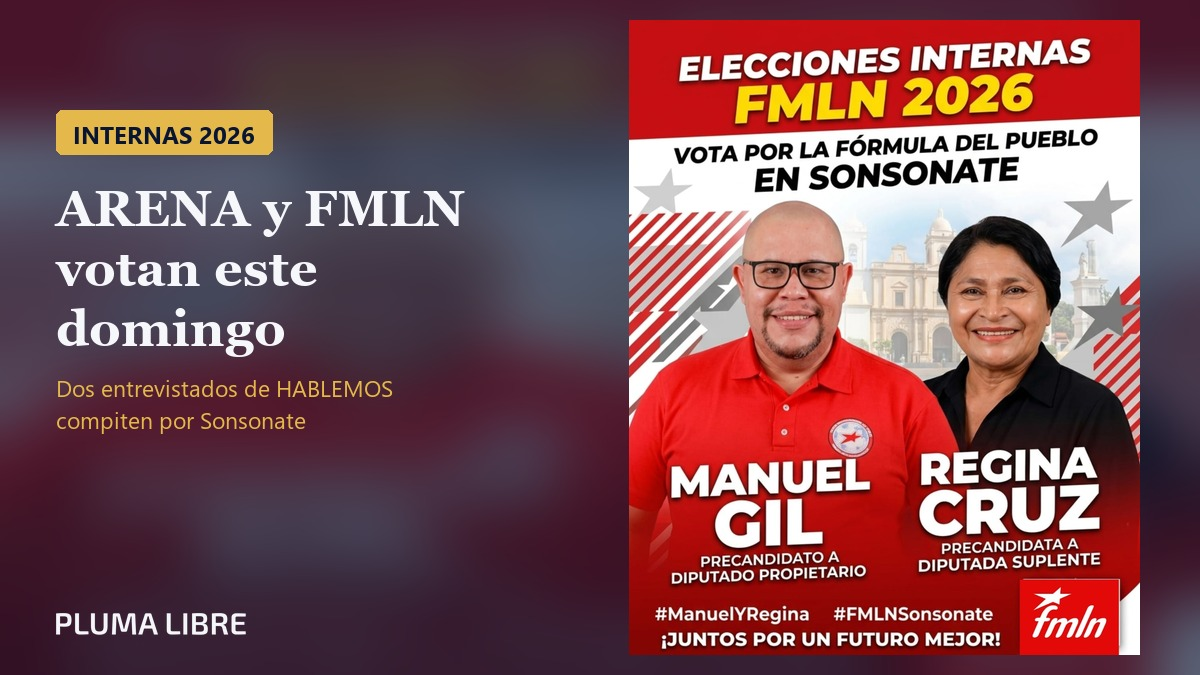
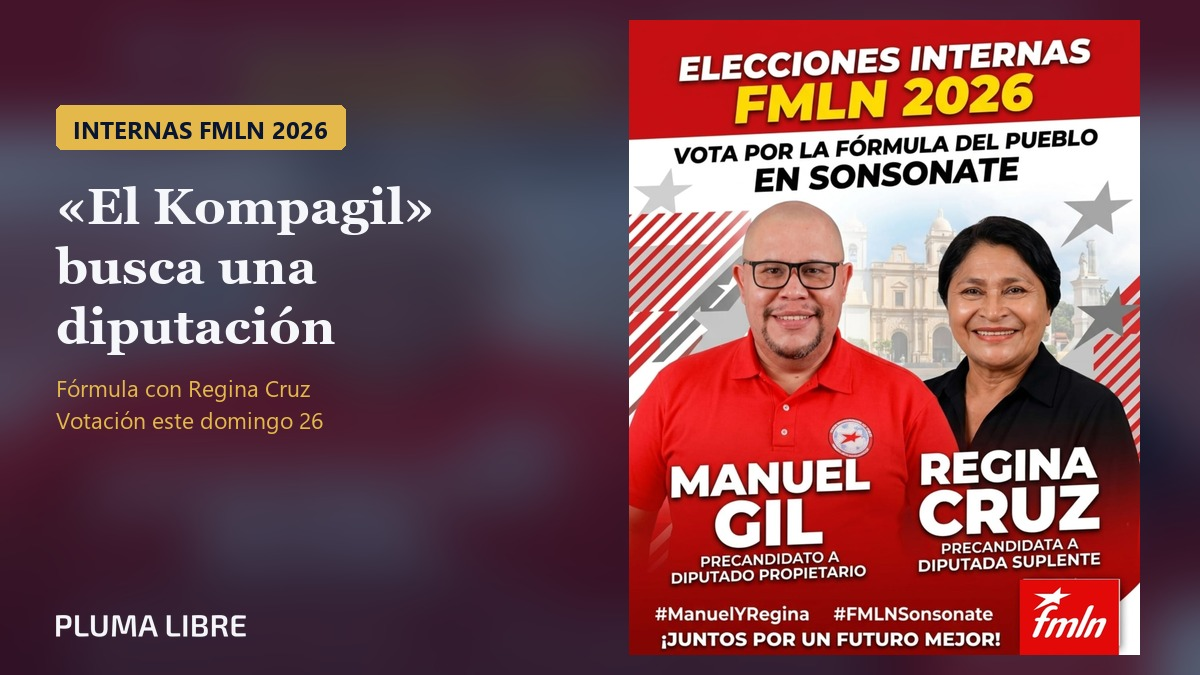
Nota internas: reenfocar solo a Kompagil/FMLN (ARENA ira en nota aparte)
Titulo, metas, cuerpo, portada y slug actualizados: la nota cubre unicamente la
precandidatura de Manuel Gil 'El Kompagil' a diputado propietario por Sonsonate en
formula con Regina Cruz. Se elimina toda mencion a ARENA y Ever Castillo.

Claude-Session: https://claude.ai/code/session_019BnRNXvM4hMaA9L6fzvqte

diff --git a/articulos/kompagil-precandidato-diputado-fmln-sonsonate.html b/articulos/kompagil-precandidato-diputado-fmln-sonsonate.html
@@ -1,0 +1,23 @@
+<!DOCTYPE html><html lang="es"><head><meta charset="UTF-8"><meta name="viewport" content="width=device-width,initial-scale=1.0"><title>«El Kompagil» busca una diputación por Sonsonate: FMLN vota este domingo — Pluma Libre</title><meta name="description" content="Manuel Gil, «El Kompagil», se inscribió como precandidato a diputado propietario por Sonsonate en fórmula con Regina Cruz, de cara a las elecciones internas del FMLN de este domingo 26 de julio."><meta name="theme-color" content="#081A41"><link rel="canonical" href="https://plumalibre.press/articulos/kompagil-precandidato-diputado-fmln-sonsonate.html"><meta property="og:type" content="article"><meta property="og:title" content="«El Kompagil» busca una diputación por Sonsonate: FMLN vota este domingo"><meta property="og:description" content="Manuel Gil «El Kompagil» compite como precandidato a diputado propietario por Sonsonate en las internas del FMLN de este domingo 26 de julio, en fórmula con Regina Cruz."><meta property="og:image" content="https://plumalibre.press/assets/nota-internas-cover.jpg"><meta property="og:site_name" content="Pluma Libre"><meta property="article:published_time" content="2026-07-25"><script type="application/ld+json">{"@context":"https://schema.org","@type":"NewsArticle","headline":"«El Kompagil» busca una diputación por Sonsonate: FMLN vota este domingo","datePublished":"2026-07-25","author":{"@type":"Organization","name":"Pluma Libre"},"publisher":{"@type":"Organization","name":"Pluma Libre","logo":{"@type":"ImageObject","url":"https://plumalibre.press/assets/logo-simbolo.png"}}}</script><script async src="https://www.googletagmanager.com/gtag/js?id=G-TZRTJLP5KT"></script><script>window.dataLayer=window.dataLayer||[];function gtag(){dataLayer.push(arguments);}gtag("js",new Date());gtag("config","G-TZRTJLP5KT");</script><link rel="icon" href="../assets/favicon.ico" sizes="any"><link rel="icon" type="image/png" sizes="32x32" href="../assets/favicon-32x32.png"><link rel="icon" type="image/png" sizes="192x192" href="../assets/favicon-192x192.png"><link rel="apple-touch-icon" href="../assets/apple-touch-icon.png"><link rel="manifest" href="/manifest.webmanifest"><meta name="apple-mobile-web-app-capable" content="yes"><meta name="apple-mobile-web-app-status-bar-style" content="black-translucent"><meta name="apple-mobile-web-app-title" content="Pluma Libre"><meta name="mobile-web-app-capable" content="yes"><link rel="preconnect" href="https://fonts.googleapis.com"><link rel="preconnect" href="https://fonts.gstatic.com" crossorigin><link href="https://fonts.googleapis.com/css2?family=Newsreader:opsz,wght@6..72,400;6..72,600;6..72,700&family=Outfit:wght@400;500;600;700&display=swap" rel="stylesheet"><link rel="stylesheet" href="../style.css"></head><body class="article-page"><div class="top-bar"><div class="wrap"><span id="fecha"></span><a href="https://www.facebook.com/plumalibre.press/" target="_blank" rel="noopener" aria-label="Facebook"><svg width="14" height="14" fill="currentColor" viewBox="0 0 24 24"><path d="M24 12.073c0-6.627-5.373-12-12-12s-12 5.373-12 12c0 5.99 4.388 10.954 10.125 11.854v-8.385H7.078v-3.47h3.047V9.43c0-3.007 1.792-4.669 4.533-4.669 1.312 0 2.686.235 2.686.235v2.953H15.83c-1.491 0-1.956.925-1.956 1.874v2.25h3.328l-.532 3.47h-2.796v8.385C19.612 23.027 24 18.062 24 12.073z"/></svg></a></div></div><header class="header"><div class="wrap"><a href="../index.html" class="logo"><img src="../assets/logo-simbolo.png" alt="Pluma Libre" class="logo-simbolo" width="40" height="40"><div class="logo-text"><h1><img src="../assets/logo-wordmark.png" alt="PLUMA LIBRE" class="logo-wordmark"></h1></div></a><button class="menu-btn" id="menuBtn" aria-label="Menú"><span></span><span></span><span></span></button><nav class="nav" id="nav"><ul><li><a href="../index.html">Inicio</a></li><li><a href="../secciones/politico.html">Política</a></li><li><a href="../secciones/economico.html">Economía</a></li><li><a href="../secciones/deportivo.html">Deportes</a></li><li><a href="../secciones/social.html">Social</a></li><li><a href="../secciones/religioso.html">Religión</a></li><li><a href="../secciones/cultural.html">Cultura</a></li><li><a href="../secciones/internacional.html">Internacional</a></li><li><a href="../sobre-nosotros.html">Nosotros</a></li></ul></nav></div></header><main><div class="wrap"><div class="article-header"><span class="badge badge-brand">Política</span><h1>«El Kompagil» busca una diputación por Sonsonate: FMLN vota este domingo</h1><div class="article-meta"><strong>Por Pluma Libre</strong> · 25 de julio, 2026 · Sonsonate</div></div><figure class="article-img"><img src="../assets/nota-internas-cover.jpg" alt="Fórmula del FMLN por Sonsonate en las internas del 26 de julio" loading="eager"><figcaption>Fórmula del FMLN por Sonsonate para las internas de este domingo. / Imagen: material de campaña del precandidato</figcaption></figure><div class="article-body"><p>El comunicador y activista social <strong>Manuel Gil</strong>, conocido como <strong>«El Kompagil»</strong>, se inscribió como <strong>precandidato a diputado propietario</strong> por el departamento de Sonsonate, en fórmula con <strong>Regina Cruz</strong>, precandidata a diputada suplente, de cara a las <strong>elecciones internas del FMLN</strong> de este <strong>domingo 26 de julio</strong>.</p>
+
+<p>En un mensaje dirigido a la militancia del partido, el precandidato explicó así su candidatura: "Entendiendo el momento histórico que vive nuestro amado El Salvador y la necesidad de presentarle al pueblo sonsonateco una alternativa política confiable, que pueda asegurarle su representación y tener una voz que favorezca sus intereses".</p>
+
+<p>Gil afirmó asumir la tarea "con profunda responsabilidad patriótica y compromiso" y pidió a los afiliados "su voto de confianza", con el objetivo de que "en 2027 el FMLN tenga un diputado en la Asamblea Legislativa".</p>
+
+<h2>"Una opción que devuelva la esperanza"</h2>
+
+<p>Al oficializar su inscripción, Gil señaló que busca presentarle al pueblo sonsonateco "una opción que devuelva la esperanza" y contribuir a "reconstruir la democracia, el Estado de derecho y la cultura de paz".</p>
+
+<p>El precandidato dijo postularse "entendiendo el momento histórico" que atraviesa el país y afirmó que cierra filas con lo que llamó "el único instrumento político de izquierda".</p>
+
+<p>Manuel Gil pasó por <strong>HABLEMOS</strong>, el espacio de entrevistas de Pluma Libre, donde afirmó que "la mayoría legislativa es el soporte de la dictadura". <a href="manuel-gil-en-hablemos-la-mayoria-legislativa-es-el-soporte-de-la-dictadura.html">(Leé aquí la entrevista completa.)</a></p>
+
+<h2>El calendario</h2>
+
+<p>Las elecciones internas del FMLN se realizan este domingo 26 de julio y forman parte del proceso con el que los partidos definen sus candidaturas rumbo a las <strong>elecciones generales del 28 de febrero de 2027</strong>, en las que se elegirán presidente, diputados y alcaldes.</p>
+
+<p>Los partidos políticos tienen como plazo el <strong>29 de julio</strong> para tener definidas sus candidaturas.</p>
+
+<p>Pluma Libre dará seguimiento a los resultados de las internas en el departamento de Sonsonate.</p>
+
+<p>#PlumaLibre #FMLN #Sonsonate #EleccionesInternas</p></div><section class="follow-us"><p>Seguinos para más noticias de Sonsonate</p><div class="social-icons"><a href="https://www.facebook.com/plumalibre.press/" target="_blank" rel="noopener" aria-label="Facebook"><svg viewBox="0 0 24 24" width="1.25em" height="1.25em" fill="currentColor" aria-hidden="true"><path d="M12 0C5.373 0 0 5.373 0 12c0 6.016 4.432 10.984 10.206 11.852V15.18H7.237V12h2.969V9.797c0-3.504 1.67-5.033 4.58-5.033 1.394 0 2.131.103 2.48.15v2.73h-1.97c-1.235 0-1.667 1.17-1.667 2.49V12h3.605l-.489 3.18h-3.117v8.697C19.482 23.009 24 18.006 24 12c0-6.627-5.373-12-12-12z"/></svg></a><a href="https://www.instagram.com/plumalibrepress/" target="_blank" rel="noopener" aria-label="Instagram"><svg viewBox="0 0 24 24" width="1.25em" height="1.25em" fill="currentColor" aria-hidden="true"><path d="M12 2.163c3.204 0 3.584.012 4.85.07 3.252.148 4.771 1.691 4.919 4.919.058 1.265.069 1.645.069 4.849 0 3.205-.012 3.584-.069 4.849-.149 3.225-1.664 4.771-4.919 4.919-1.266.058-1.644.07-4.85.07-3.204 0-3.584-.012-4.849-.07-3.26-.149-4.771-1.699-4.919-4.92-.058-1.265-.07-1.644-.07-4.849 0-3.204.013-3.583.07-4.849.149-3.227 1.664-4.771 4.919-4.919 1.266-.057 1.645-.069 4.849-.069zM12 0C8.741 0 8.333.014 7.053.072 2.695.272.273 2.69.073 7.052.014 8.333 0 8.741 0 12c0 3.259.014 3.668.072 4.948.2 4.358 2.618 6.78 6.98 6.98C8.333 23.986 8.741 24 12 24c3.259 0 3.668-.014 4.948-.072 4.354-.2 6.782-2.618 6.979-6.98.059-1.28.073-1.689.073-4.948 0-3.259-.014-3.667-.072-4.947-.196-4.354-2.617-6.78-6.979-6.98C15.668.014 15.259 0 12 0zm0 5.838a6.162 6.162 0 100 12.324 6.162 6.162 0 000-12.324zM12 16a4 4 0 110-8 4 4 0 010 8zm6.406-11.845a1.44 1.44 0 100 2.881 1.44 1.44 0 000-2.881z"/></svg></a><a href="https://x.com/PlumaLibrePress" target="_blank" rel="noopener" aria-label="X"><svg viewBox="0 0 24 24" width="1.25em" height="1.25em" fill="currentColor" aria-hidden="true"><path d="M18.901 1.153h3.68l-8.04 9.19L24 22.846h-7.406l-5.8-7.584-6.638 7.584H.474l8.6-9.83L0 1.154h7.594l5.243 6.932ZM17.61 20.644h2.039L6.486 3.24H4.298Z"/></svg></a><a href="https://www.youtube.com/@PlumaLibre-k5z" target="_blank" rel="noopener" aria-label="YouTube"><svg viewBox="0 0 24 24" width="1.25em" height="1.25em" fill="currentColor" aria-hidden="true"><path d="M23.498 6.186a3.016 3.016 0 0 0-2.122-2.136C19.505 3.545 12 3.545 12 3.545s-7.505 0-9.377.505A3.017 3.017 0 0 0 .502 6.186C0 8.07 0 12 0 12s0 3.93.502 5.814a3.016 3.016 0 0 0 2.122 2.136c1.871.505 9.376.505 9.376.505s7.505 0 9.377-.505a3.015 3.015 0 0 0 2.122-2.136C24 15.93 24 12 24 12s0-3.93-.502-5.814zM9.545 15.568V8.432L15.818 12l-6.273 3.568z"/></svg></a><a href="https://wa.me/50373836622?text=Hola%20Pluma%20Libre" target="_blank" rel="noopener" aria-label="WhatsApp"><svg viewBox="0 0 24 24" width="1.25em" height="1.25em" fill="currentColor" aria-hidden="true"><path d="M17.472 14.382c-.297-.149-1.758-.867-2.03-.967-.273-.099-.471-.148-.67.15-.197.297-.767.966-.94 1.164-.173.199-.347.223-.644.075-.297-.15-1.255-.463-2.39-1.475-.883-.788-1.48-1.761-1.653-2.059-.173-.297-.018-.458.13-.606.134-.133.298-.347.446-.52.149-.174.198-.298.298-.497.099-.198.05-.371-.025-.52-.075-.149-.669-1.612-.916-2.207-.242-.579-.487-.5-.669-.51-.173-.008-.371-.01-.57-.01-.198 0-.52.074-.792.372-.272.297-1.04 1.016-1.04 2.479 0 1.462 1.065 2.875 1.213 3.074.149.198 2.096 3.2 5.077 4.487.709.306 1.262.489 1.694.625.712.227 1.36.195 1.871.118.571-.085 1.758-.719 2.006-1.413.248-.694.248-1.289.173-1.413-.074-.124-.272-.198-.57-.347m-5.421 7.403h-.004a9.87 9.87 0 01-5.031-1.378l-.361-.214-3.741.982.998-3.648-.235-.374a9.86 9.86 0 01-1.51-5.26c.001-5.45 4.436-9.884 9.888-9.884 2.64 0 5.122 1.03 6.988 2.898a9.825 9.825 0 012.893 6.994c-.003 5.45-4.437 9.884-9.885 9.884m8.413-18.297A11.815 11.815 0 0012.05 0C5.495 0 .16 5.335.157 11.892c0 2.096.547 4.142 1.588 5.945L.057 24l6.305-1.654a11.882 11.882 0 005.683 1.448h.005c6.554 0 11.89-5.335 11.893-11.893a11.821 11.821 0 00-3.48-8.413Z"/></svg></a></div></section><section class="contact-cta"><p>¿Tenés una noticia, una denuncia o querés anunciarte con nosotros?</p><p><a href="mailto:contacto@plumalibre.press">contacto@plumalibre.press</a> · <a href="../sobre-nosotros.html#contactoForm">Escribinos aquí</a></p></section><div class="share"><p class="share-label">Compartir</p><div class="share-btns"><a class="fb" id="shareFb" href="#" target="_blank">Facebook</a><a class="wa" id="shareWa" href="#" target="_blank">WhatsApp</a></div></div></div></main><footer class="footer"><div class="wrap"><div class="footer-grid"><div><h4>Pluma Libre</h4><p>Medio Informativo de Interés Local, Nacional e Internacional.</p></div><div><h4>Secciones</h4><ul><li><a href="../secciones/politico.html">Política</a></li><li><a href="../secciones/economico.html">Economía</a></li><li><a href="../secciones/deportivo.html">Deportes</a></li><li><a href="../secciones/social.html">Social</a></li><li><a href="../secciones/religioso.html">Religión</a></li><li><a href="../secciones/cultural.html">Cultura</a></li><li><a href="../secciones/internacional.html">Internacional</a></li></ul></div><div><h4>Contacto</h4><p>Sonsonate, El Salvador</p></div></div><p class="footer-bottom">© 2026 Pluma Libre.</p></div></footer><script>const m=["enero","febrero","marzo","abril","mayo","junio","julio","agosto","septiembre","octubre","noviembre","diciembre"],dd=["Domingo","Lunes","Martes","Miércoles","Jueves","Viernes","Sábado"],h=new Date();document.getElementById("fecha").textContent=dd[h.getDay()]+", "+h.getDate()+" de "+m[h.getMonth()]+" de "+h.getFullYear();const mb=document.getElementById("menuBtn"),nv=document.getElementById("nav");mb.addEventListener("click",()=>{nv.classList.toggle("open");mb.classList.toggle("open")});document.querySelectorAll(".nav a").forEach(l=>l.addEventListener("click",()=>{nv.classList.remove("open");mb.classList.remove("open")}));const u=encodeURIComponent(location.href),t=encodeURIComponent(document.title);document.getElementById("shareFb").href="https://www.facebook.com/sharer/sharer.php?u="+u;document.getElementById("shareWa").href="https://api.whatsapp.com/send?text="+t+"%20"+u</script><script>addEventListener("scroll",function(){var h=document.querySelector(".header");h&&h.classList.toggle("scrolled",scrollY>20)},{passive:true});</script><script src="/assets/install.js" defer></script><script>if("serviceWorker" in navigator){addEventListener("load",function(){navigator.serviceWorker.register("/sw.js").catch(function(){});});}</script></body></html>

diff --git a/index.html b/index.html
@@ -96,7 +96,7 @@
     <section class="home-hero">
       <div class="wrap">
         <div class="home-hero-grid">
-          <article class="home-hero-principal"><div class="img"><img src="assets/nota-internas-cover.jpg" alt="" loading="eager"></div><div class="body"><span class="kicker">Política</span><h2><a href="articulos/internas-arena-fmln-26-julio-sonsonate.html">ARENA y FMLN votan este domingo: dos entrevistados de HABLEMOS compiten por Sonsonate</a></h2><p class="meta">Por Pluma Libre · 25 de julio, 2026</p></div></article>
+          <article class="home-hero-principal"><div class="img"><img src="assets/nota-internas-cover.jpg" alt="" loading="eager"></div><div class="body"><span class="kicker">Política</span><h2><a href="articulos/kompagil-precandidato-diputado-fmln-sonsonate.html">«El Kompagil» busca una diputación por Sonsonate: FMLN vota este domingo</a></h2><p class="meta">Por Pluma Libre · 25 de julio, 2026</p></div></article>
           <aside class="home-hero-sidebar">
             <article class="home-hero-secondary"><div class="thumb"><img src="assets/duelo-mariano-rolando.jpg" alt="" loading="lazy"></div><div class="info"><span class="kicker">Social</span><h3><a href="articulos/pluma-libre-despide-a-mariano-galan-cronista-incan.html">Pluma Libre despide a Mariano Galán, cronista incansable y defensor de la libertad de prensa</a></h3></div></article>
           </aside>
@@ -121,7 +121,7 @@
         <h2>Últimas Noticias</h2>
       </div>
       <div class="news-grid">
-        <article class="card"><div class="thumb"><img src="assets/nota-internas-cover.jpg" alt="" loading="lazy"></div><div class="info"><span class="badge-sm">Política</span><h3><a href="articulos/internas-arena-fmln-26-julio-sonsonate.html">ARENA y FMLN votan este domingo: dos entrevistados de HABLEMOS compiten por Sonsonate</a></h3><p class="meta">25 de julio, 2026</p></div></article>
+        <article class="card"><div class="thumb"><img src="assets/nota-internas-cover.jpg" alt="" loading="lazy"></div><div class="info"><span class="badge-sm">Política</span><h3><a href="articulos/kompagil-precandidato-diputado-fmln-sonsonate.html">«El Kompagil» busca una diputación por Sonsonate: FMLN vota este domingo</a></h3><p class="meta">25 de julio, 2026</p></div></article>
         <article class="card"><div class="thumb"><img src="assets/nota-agostinas-carretera.jpg" alt="" loading="lazy"></div><div class="info"><span class="badge-sm">Social</span><h3><a href="articulos/vacaciones-agostinas-2026-asuetos-seguridad-vial.html">Vacaciones agostinas 2026: los días de asueto y el plan vial, en un año con 820 muertes en carretera</a></h3><p class="meta">25 de julio, 2026</p></div></article>
         <article class="card"><div class="thumb"><img src="assets/nota-ruta205-cover.jpg" alt="" loading="lazy"></div><div class="info"><span class="badge-sm">Social</span><h3><a href="articulos/ruta-205-cambio-de-operador-maritza-esmeralda-setcs.html">Maritza Esmeralda cierra operaciones en la ruta 205 y sus buses pasan a SETCS, según su propietario</a></h3><p class="meta">24 de julio, 2026</p></div></article>
         <article class="card"><div class="thumb"><img src="assets/nota-convocatoria-proveedores.jpg" alt="" loading="lazy"></div><div class="info"><span class="badge-sm">Política</span><h3><a href="articulos/convocatoria-proveedores-uniformes-concentracion-29-julio.html">Proveedores de uniformes convocan a una concentración pacífica el 29 de julio en San Salvador</a></h3><p class="meta">24 de julio, 2026</p></div></article>

diff --git a/secciones/politico.html b/secciones/politico.html
@@ -40,9 +40,9 @@
   </div></header>
   <main><div class="wrap"><div class="section-head"><h2>Política</h2></div>
     <article class="card-lg">
-      <div class="img-wrap"><img src="../assets/nota-internas-cover.jpg" alt="Elecciones internas de ARENA y FMLN del 26 de julio" loading="lazy"></div>
-      <h3><a href="../articulos/internas-arena-fmln-26-julio-sonsonate.html">ARENA y FMLN votan este domingo: dos entrevistados de HABLEMOS compiten por Sonsonate</a></h3>
-      <p class="excerpt">Ambos partidos celebran sus elecciones internas este 26 de julio rumbo a los comicios de 2027. Entre los precandidatos por Sonsonate figuran Ever Castillo (ARENA) y Manuel Gil, «El Kompagil» (FMLN), en fórmula con Regina Cruz. El plazo para definir candidaturas vence el 29 de julio.</p>
+      <div class="img-wrap"><img src="../assets/nota-internas-cover.jpg" alt="Fórmula del FMLN por Sonsonate en las internas del 26 de julio" loading="lazy"></div>
+      <h3><a href="../articulos/kompagil-precandidato-diputado-fmln-sonsonate.html">«El Kompagil» busca una diputación por Sonsonate: FMLN vota este domingo</a></h3>
+      <p class="excerpt">Manuel Gil, «El Kompagil», se inscribió como precandidato a diputado propietario por Sonsonate, en fórmula con Regina Cruz como suplente, de cara a las elecciones internas del FMLN de este domingo 26 de julio.</p>
       <p class="meta">Por Pluma Libre · 25 de julio, 2026</p>
     </article>
     <article class="card-lg">
